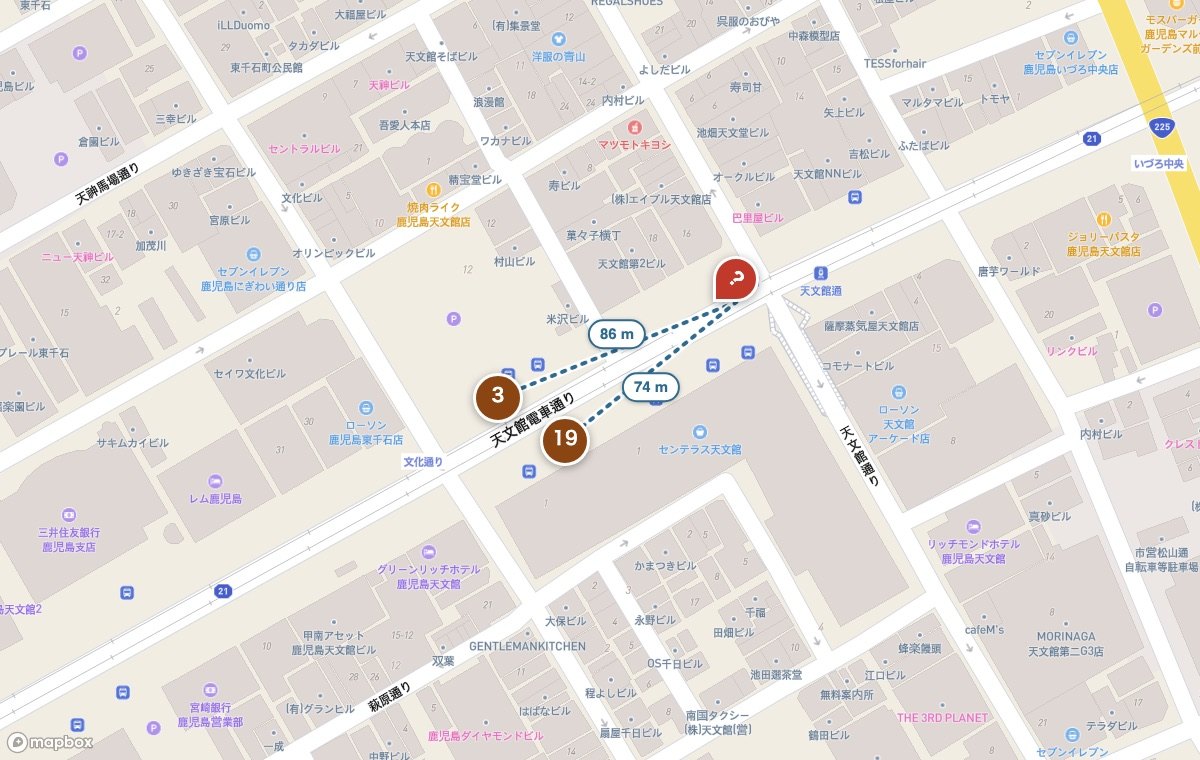
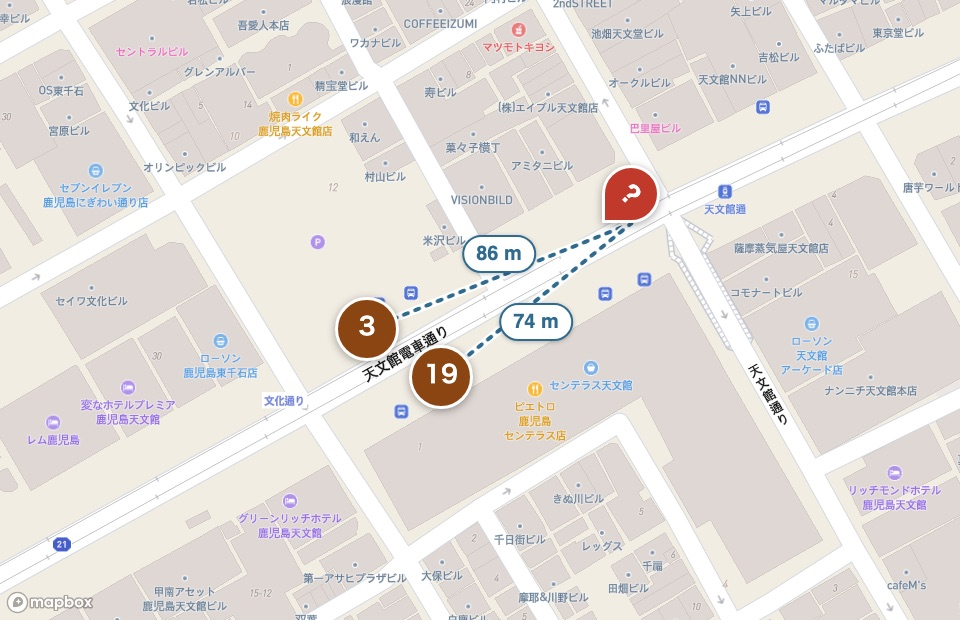
fix(home): 天文館 그림 확대·ko/en 제목 완화

diff --git a/src/components/home/ProblemGrid.tsx b/src/components/home/ProblemGrid.tsx
@@ -31,8 +31,8 @@ export default function ProblemGrid() {
             <Image
               src="/images/home/tenmonkan-map.jpg"
               alt={t('home.figAlt')}
-              width={1200}
-              height={760}
+              width={960}
+              height={620}
               sizes="(max-width: 1023px) 92vw, 560px"
               className={styles.figImg}
             />
